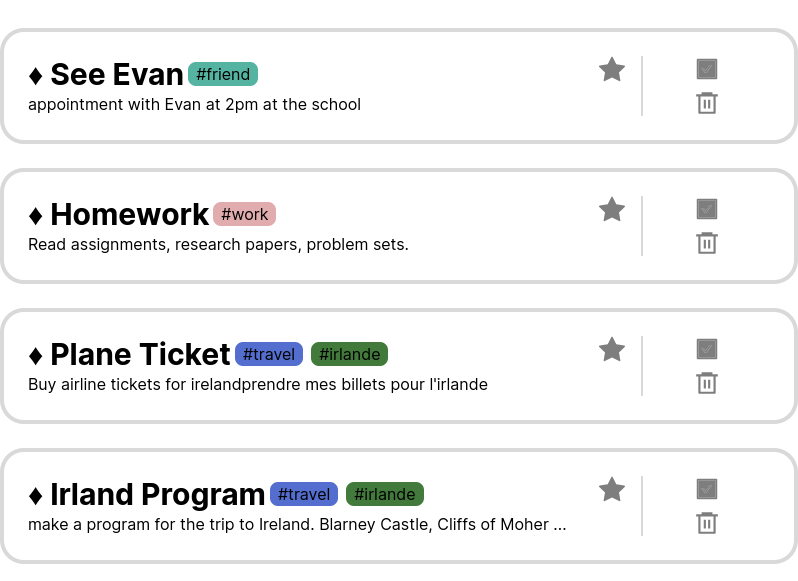
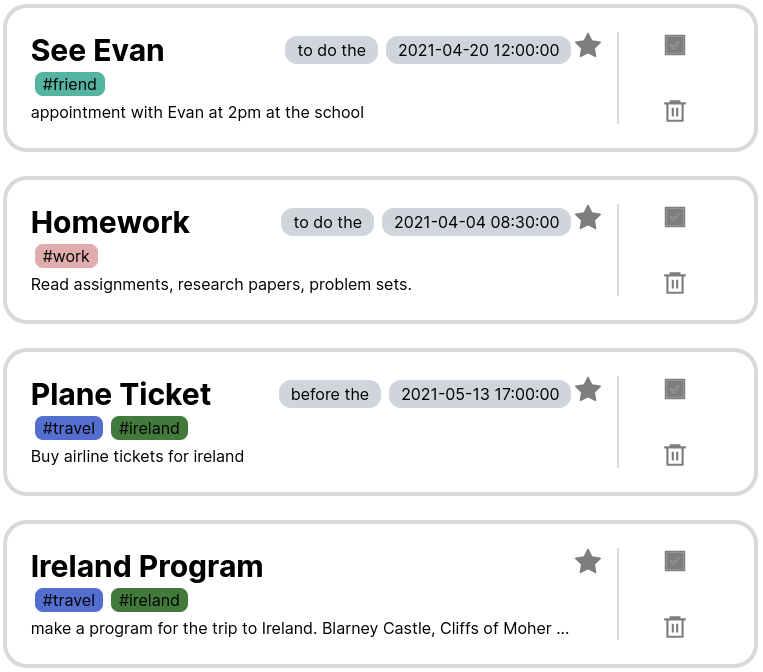
refactor : switch checked/unchecked todos in menu. remove s in tags in create and add png for soon

Changed region(s): [[0.0, 0.0, 1.0, 0.7435], [0.0, 0.7745, 1.0, 1.0], [0.7536, 0.8055, 0.8139, 0.9294]]

diff --git a/src/components/menu/menu.tsx b/src/components/menu/menu.tsx
@@ -52,8 +52,8 @@ export default function Menu(props: MenuProps) {
     <IconButton icon={<AiOutlinePlusCircle />} text='Create Todo' onClick={handleCreateTodo} iconColor='black' className={`${props.tab == 'create' ? "font-bold" : ""}`} />
     <IconButton icon={<BsListNested />} text='All' onClick={handleListAllTodos} iconColor='black' className={`${props.tab == 'listAll' ? "font-bold" : ""}`} />
     <IconButton icon={<AiFillStar />} text='Favorites' onClick={handleListFavoriteTodos} iconColor={starYellow} className={`${props.tab == 'listFavorite' ? "font-bold" : ""}`} />
-    <IconButton icon={<AiFillCheckSquare />} text='Checked' onClick={handleListCheckedTodos} iconColor={gray_700} className={`${props.tab == 'listChecked' ? "font-bold" : ""}`} />
     <IconButton icon={<AiTwotoneCheckSquare />} text='Unchecked' onClick={handleListUncheckedTodos} iconColor={gray_700} className={`${props.tab == 'listUnchecked' ? "font-bold" : ""}`} />
+    <IconButton icon={<AiFillCheckSquare />} text='Checked' onClick={handleListCheckedTodos} iconColor={gray_700} className={`${props.tab == 'listChecked' ? "font-bold" : ""}`} />
     <IconButton icon={<RiDeleteBin6Line />} text='Trash' onClick={handleListTrash} iconColor={gray_700} className={`${props.tab == 'listTrash' ? "font-bold" : ""}`} />
     <hr className="border-gray-400 border-solid border-b-2 rounded-lg mx-8"></hr>
     <div className="flex flex-wrap mt-2">

diff --git a/src/components/create/create.tsx b/src/components/create/create.tsx
@@ -166,9 +166,9 @@ export default function Create(props: CreateProps) {
           <div className='flex'>
             {existantTags.length > 0 && existantTags.map((e, i) => <TagMenu key={e.name as string} tag={e} onClick={() => { addExistantTag(e) }} />)}
           </div>
-          <Input htmlFor='tags' onchange={(e) => setTagName(e.target.value)}
-            value={tagName} label='Tags' placeholder='Tags' type='text' />
-          <Button type='button' onClick={addTag} text='Add Tags' />
+          <Input htmlFor='tag' onchange={(e) => setTagName(e.target.value)}
+            value={tagName} label='Tag' placeholder='Tag' type='text' />
+          <Button type='button' onClick={addTag} text='Add Tag' />
         </div>
         <div className='my-2 flex h-full w-full'>
           <HexColorPicker color={color as string} className='w-6/12' onChange={setColor} />

diff --git a/src/app/login/body.tsx b/src/app/login/body.tsx
@@ -18,7 +18,7 @@ export default function Body() {
       </Suspense>
       <MenuTitle />
       <div className='flex flex-col md:flex-row items-center justify-center'>
-        <Image src="/menu.png" width="200" height="200" alt="menu" />
+        <Image src="/menu_tags.png" width="200" height="200" alt="menu" />
         <MenuDesc />
       </div>
     </div>
